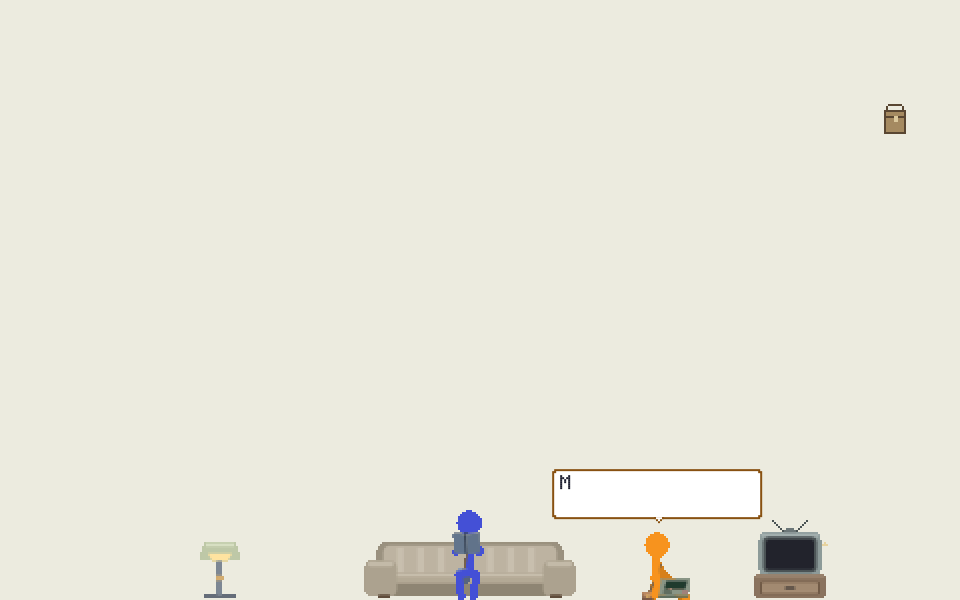
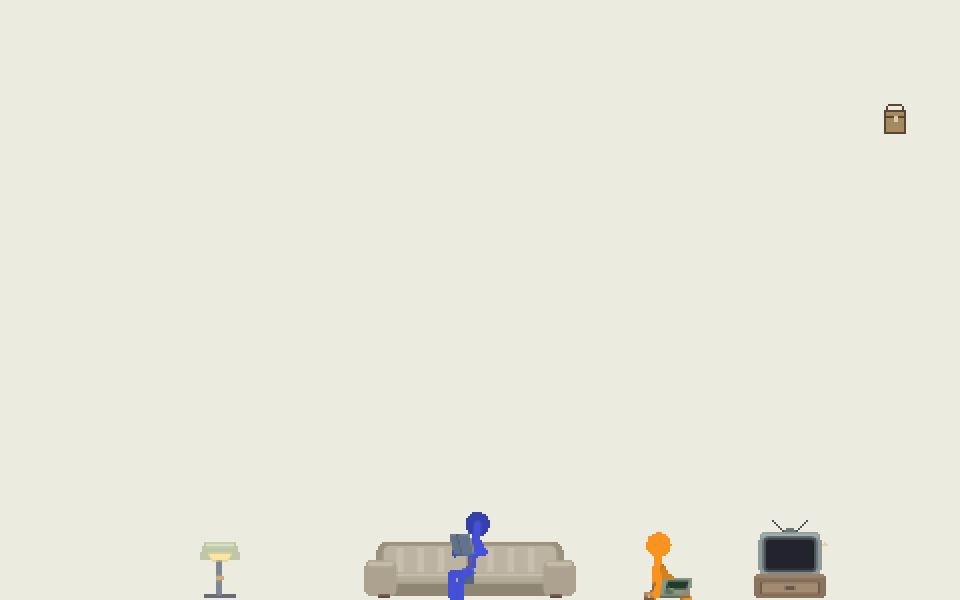
Record rc.2 customization verification and refresh product previews [skip ci]

Changed region(s): [[0.5625, 0.78, 0.8125, 0.87], [0.4688, 0.84, 0.5312, 1.0], [0.6562, 0.96, 0.7188, 1.0]]

diff --git a/docs/HANDOFF.md b/docs/HANDOFF.md
@@ -13,7 +13,12 @@ Core character proportions, personality templates and movement presets are uncha
 Draft preservation uses product.json's version, preserving the verified rc.1 download.
 CI skips the already-passed extended soaks for UI-only pushes; any core/shared/build/dependency
 change or a manual run repeats them. Aggregate/browser/customer flow and native package
-smokes still run. New candidate verification is in progress; prior evidence below is rc.1.
+smokes still run. Candidate rc.2 verification passed in CI run 40048614400: aggregate/browser/customer
+flow, customization scope/reload, both native packages and performance. The packaged
+feature guide is asserted in native extraction checks. Both ZIPs/checksums are in a
+separate rc.2 draft; remote digests match the CI-built archives. See
+verification/mallow-customization.json and release/FEATURES.md. Prior evidence below
+is rc.1. Physical desktop/store acceptance remains open.
 
 ## Latest owner request: commercial product implementation — 2026-10-24
 

diff --git a/CHANGELOG.md b/CHANGELOG.md
@@ -408,3 +408,13 @@ remaining issues here. Entries describe shipped behavior; unverified hardware be
   YAML parses; this reporting-only correction does not change the tested app archives.
 - Updated handoff/checklist and complete machine-readable verification. Physical
   desktop acceptance and authenticated store/seller verification remain open. No public sale.
+
+### rc.2 customization acceptance and media
+
+- CI 40048614400 passed aggregate checks, real Electron personality/preset scope and
+  reload, existing save/backup/offline/quit flow, both native candidate/helper smokes,
+  packaged feature guide presence, and performance (two/five p95 0.429/1.095ms).
+- Both ZIPs/checksums are preserved in a separate rc.2 draft. Remote digests match
+  native CI package hashes. Core is unchanged, retaining rc.1's passed extended soaks.
+- Refreshed runtime media and added an expanded customization screenshot/capture recipe.
+  Recorded exact results and download provenance; physical QA/store setup remain open.

diff --git a/docs/release/IMPLEMENTATION.md b/docs/release/IMPLEMENTATION.md
@@ -1,5 +1,15 @@
 # Commercial candidate implementation
 
+Latest UI candidate: **1.0.0-rc.2**, source `9e166bc`. Adds the feature/customization guide,
+per-buddy personality selection, readable mixed presets and an in-app feature list.
+CI run [40048614400](https://github.com/Mallow99/AnimationVsAnimator/actions/runs/40048614400)
+passed all applicable checks and both native packages; core is unchanged from rc.1,
+so the previously passed extended core soaks were retained. New evidence:
+[../verification/mallow-customization.json](../verification/mallow-customization.json).
+Draft downloads: https://github.com/Mallow99/AnimationVsAnimator/releases/tag/untagged-5d695bfa397f59ecb7b5
+
+The earlier core and reliability baseline follows.
+
 Version: 1.0.0-rc.1. Branch: `codex/paid-release`. Status: **not approved for sale**.
 
 Implemented: customer interface and welcome scene, offline local dialogue, original

diff --git a/docs/store/LISTING.md b/docs/store/LISTING.md
@@ -54,7 +54,7 @@ Full feature and customization guide: [../release/FEATURES.md](../release/FEATUR
 ## Upload checklist
 
 Use `docs/release/ACCEPTANCE.md`. Keep this listing in draft until its gates pass.
-Prepared media is in `docs/store/media/`: cover, three actual screenshots and a
+Prepared media is in `docs/store/media/`: cover, four actual screenshots and a
 15-second runtime demo. `SOURCE.json` records the source and capture conditions. Include
 the version, tested systems, ZIP checksums and a link to the repository's issue tracker.
 Use itch.io's “Collected by itch.io” payout mode, default 10% revenue share, and the

diff --git a/docs/PET-QUALITY-2-PLAN.md b/docs/PET-QUALITY-2-PLAN.md
@@ -115,4 +115,4 @@ Do not advance the integration roadmap. Owner hardware acceptance is the remaini
 12. **Feature list and customization — owner request 2026-10-24**
     - [x] Buyer-facing feature/customization guide included in downloads.
     - [x] Scoped personality chooser and readable mix-and-match appearance controls.
-    - [ ] Verify persistence/scope, publish rc.2 draft candidates and update evidence.
+    - [x] Verify persistence/scope, preserve rc.2 draft candidates and update evidence.

diff --git a/docs/release/ACCEPTANCE.md b/docs/release/ACCEPTANCE.md
@@ -1,4 +1,7 @@
-# Release acceptance — 1.0.0-rc.1
+# Release acceptance — commercial candidates
+
+Latest candidate: rc.2; UI/customization checks and both native package smokes passed
+in CI run 40048614400. The core baseline below is unchanged.
 
 Status: **candidate; not approved for sale**. Automated CI produces downloadable test
 archives. A successful package job does not complete native or commercial acceptance.
